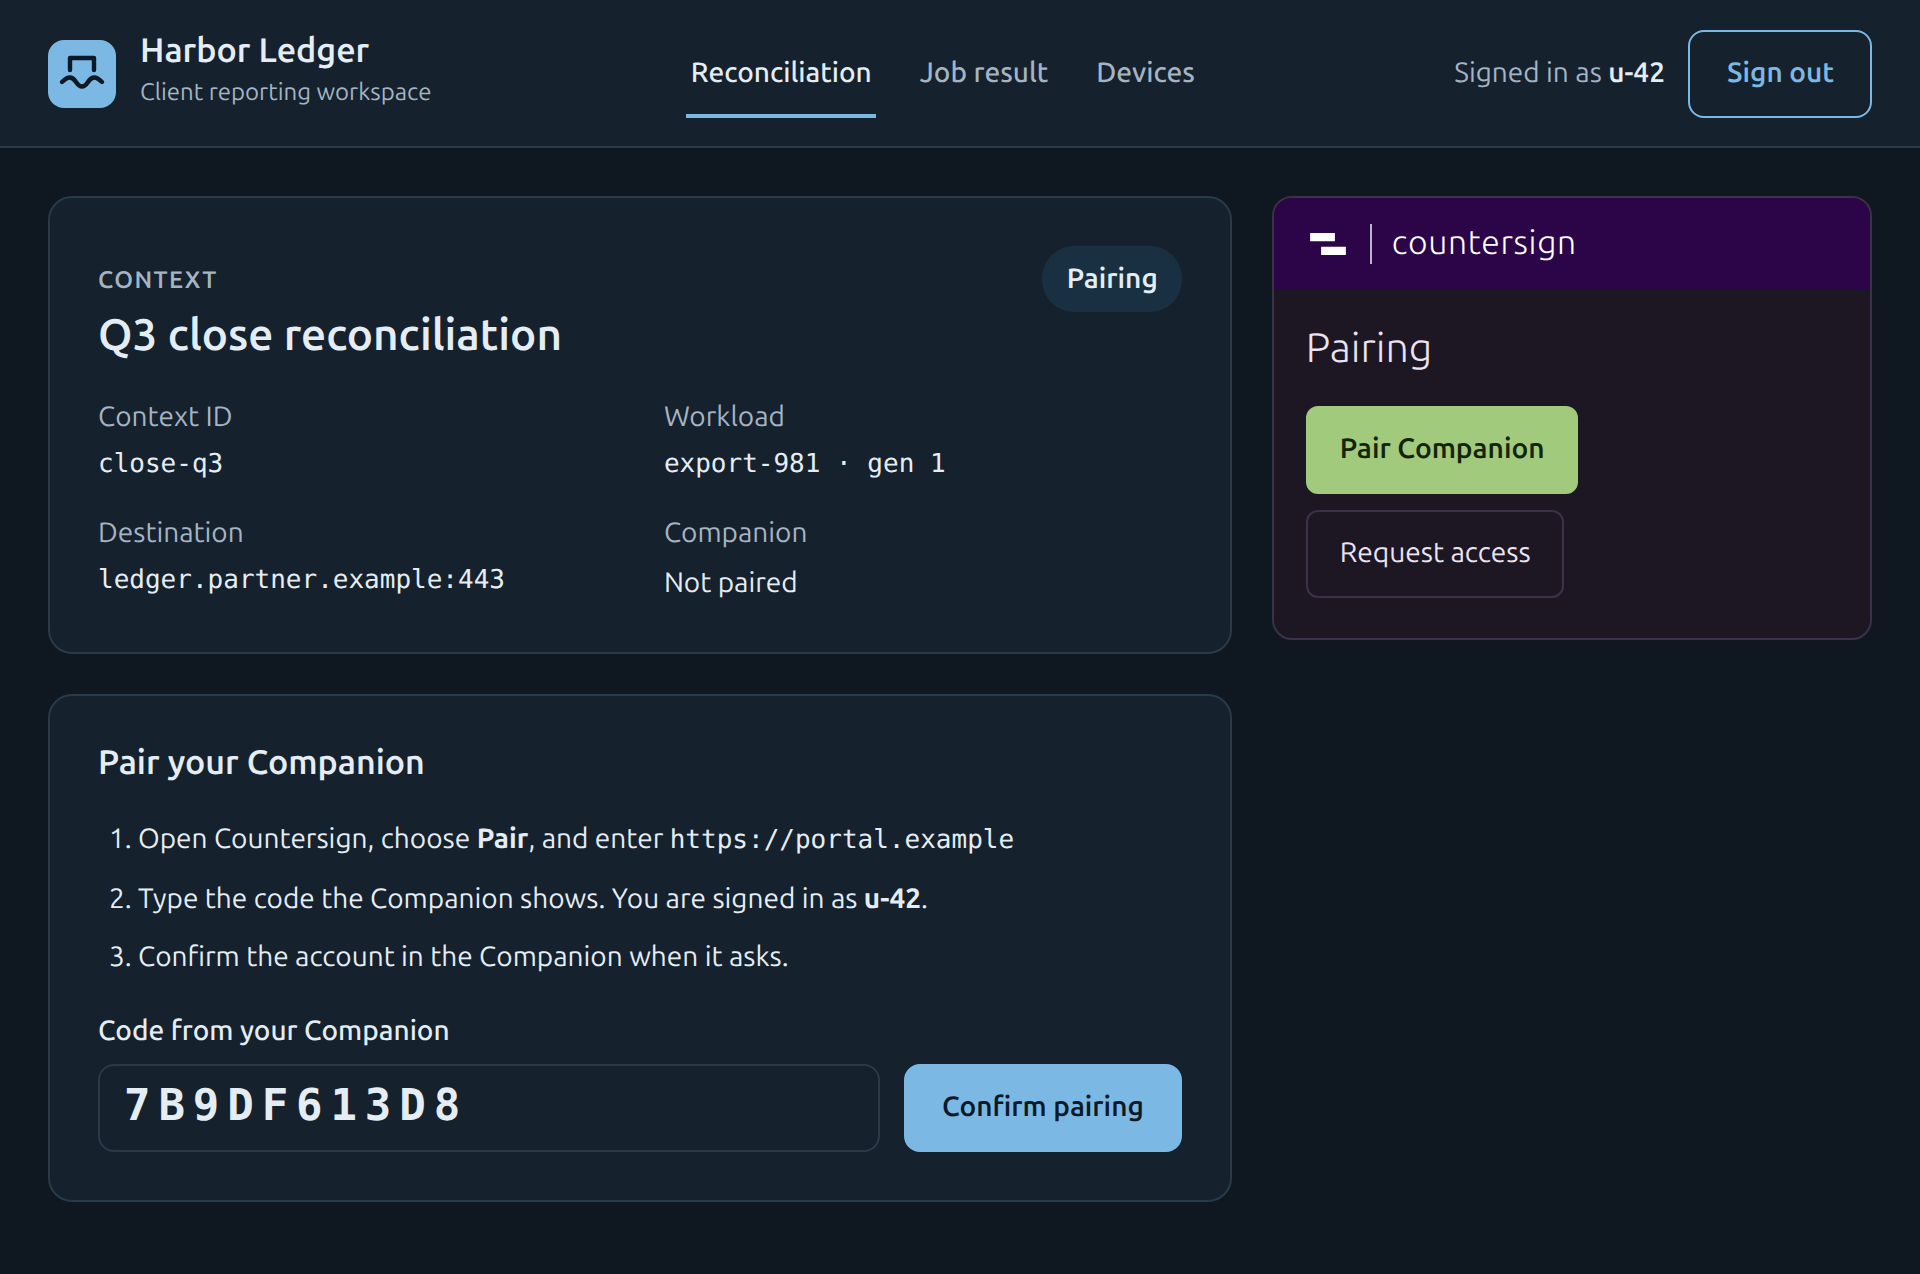
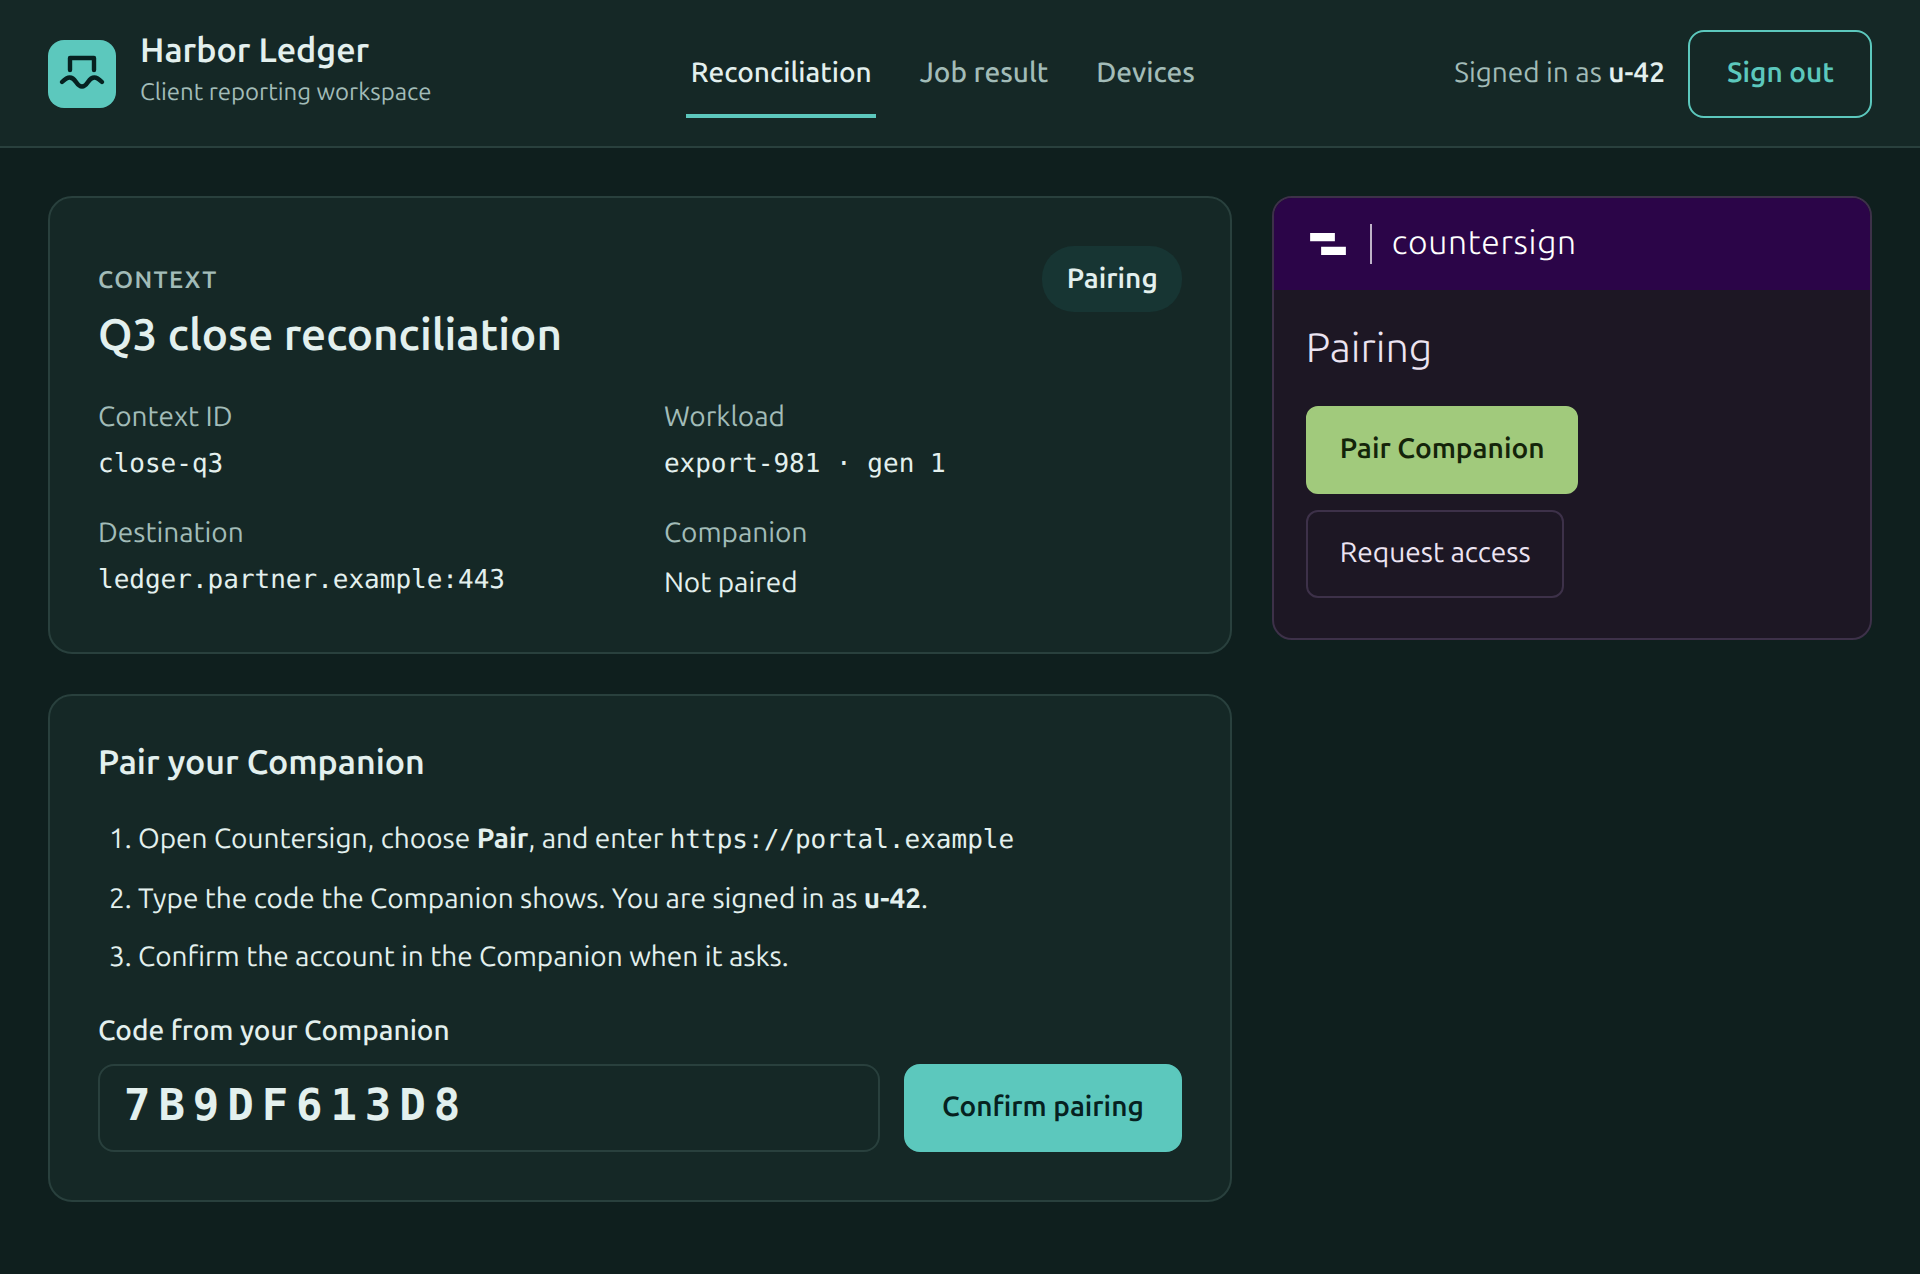
Use the approved teal palette for Harbor Ledger
The Companion mockup the owner approved shows Harbor Ledger in teal
(#0f6b6b on #eef6f4; #5cc8bd on #0f1f1e in dark), but the demo site,
its logo and its branding manifest were still harbor blue. Switch all
three and recapture the screenshots.

Changed region(s): [[0.4688, 0.8265, 0.625, 0.9184], [0.0, 0.0306, 0.0625, 0.0918], [0.9062, 0.0306, 0.9375, 0.0612]]

diff --git a/examples/demo-integrator/site/site.css b/examples/demo-integrator/site/site.css
@@ -2,23 +2,23 @@
    <countersign-widget> keeps its own Countersign styling. */
 :root {
   color-scheme: light dark;
-  --ground: #f5f7f9; --surface: #ffffff; --line: #d5dde4; --ink: #13293d; --muted: #4b5d6e;
-  --brand: #1d5f8a; --brand-ink: #ffffff; --soft: #e6f0f7;
+  --ground: #f4f8f7; --surface: #ffffff; --line: #d3e0dd; --ink: #0f2a2a; --muted: #4a5f5d;
+  --brand: #0f6b6b; --brand-ink: #ffffff; --soft: #eef6f4;
   --warn-bg: #fdf3e3; --warn-ink: #6f4300; --warn-line: #e8c98f;
   --bad-bg: #fbeceb; --bad-ink: #8f2018; --bad-line: #e7b4ae;
   --good-bg: #e8f2ec; --good-ink: #1f5130; --good-line: #a9cdb5;
-  --pending-bg: #eef2f5; --pending-ink: #4b5d6e; --pending-line: #c9d3db;
+  --pending-bg: #eef4f3; --pending-ink: #4a5f5d; --pending-line: #c8d8d5;
   --sans: Inter, "Segoe UI", "Ubuntu Sans", system-ui, sans-serif;
   --mono: ui-monospace, SFMono-Regular, Menlo, Consolas, "DejaVu Sans Mono", monospace;
 }
 @media (prefers-color-scheme: dark) {
   :root {
-    --ground: #0f1820; --surface: #15212c; --line: #2a3a49; --ink: #e5edf4; --muted: #a4b4c3;
-    --brand: #7cb8e4; --brand-ink: #0b1a26; --soft: #183042;
+    --ground: #0f1f1e; --surface: #152826; --line: #29403d; --ink: #e3f0ee; --muted: #a2bcb8;
+    --brand: #5cc8bd; --brand-ink: #062120; --soft: #173533;
     --warn-bg: #33260f; --warn-ink: #f3cf8a; --warn-line: #6b5222;
     --bad-bg: #3a1714; --bad-ink: #ffb3ab; --bad-line: #6e2d27;
     --good-bg: #14301f; --good-ink: #a8dbb7; --good-line: #2f5c3d;
-    --pending-bg: #172430; --pending-ink: #a4b4c3; --pending-line: #2f4152;
+    --pending-bg: #162a28; --pending-ink: #a2bcb8; --pending-line: #2e4744;
   }
 }
 * { box-sizing: border-box; }

diff --git a/examples/demo-integrator/site-files.js b/examples/demo-integrator/site-files.js
@@ -15,4 +15,4 @@ export const contentSecurityPolicy =
 
 // The fictional brand the Companion shows for this demo.
 export const manifest = {version:1,displayName:'Harbor Ledger',copy:'Client reporting workspace',
-  logo:'/harbor-ledger.png',colors:{accent:'#1d5f8a',background:'#e6f0f7'}};
+  logo:'/harbor-ledger.png',colors:{accent:'#0f6b6b',background:'#eef6f4'}};
